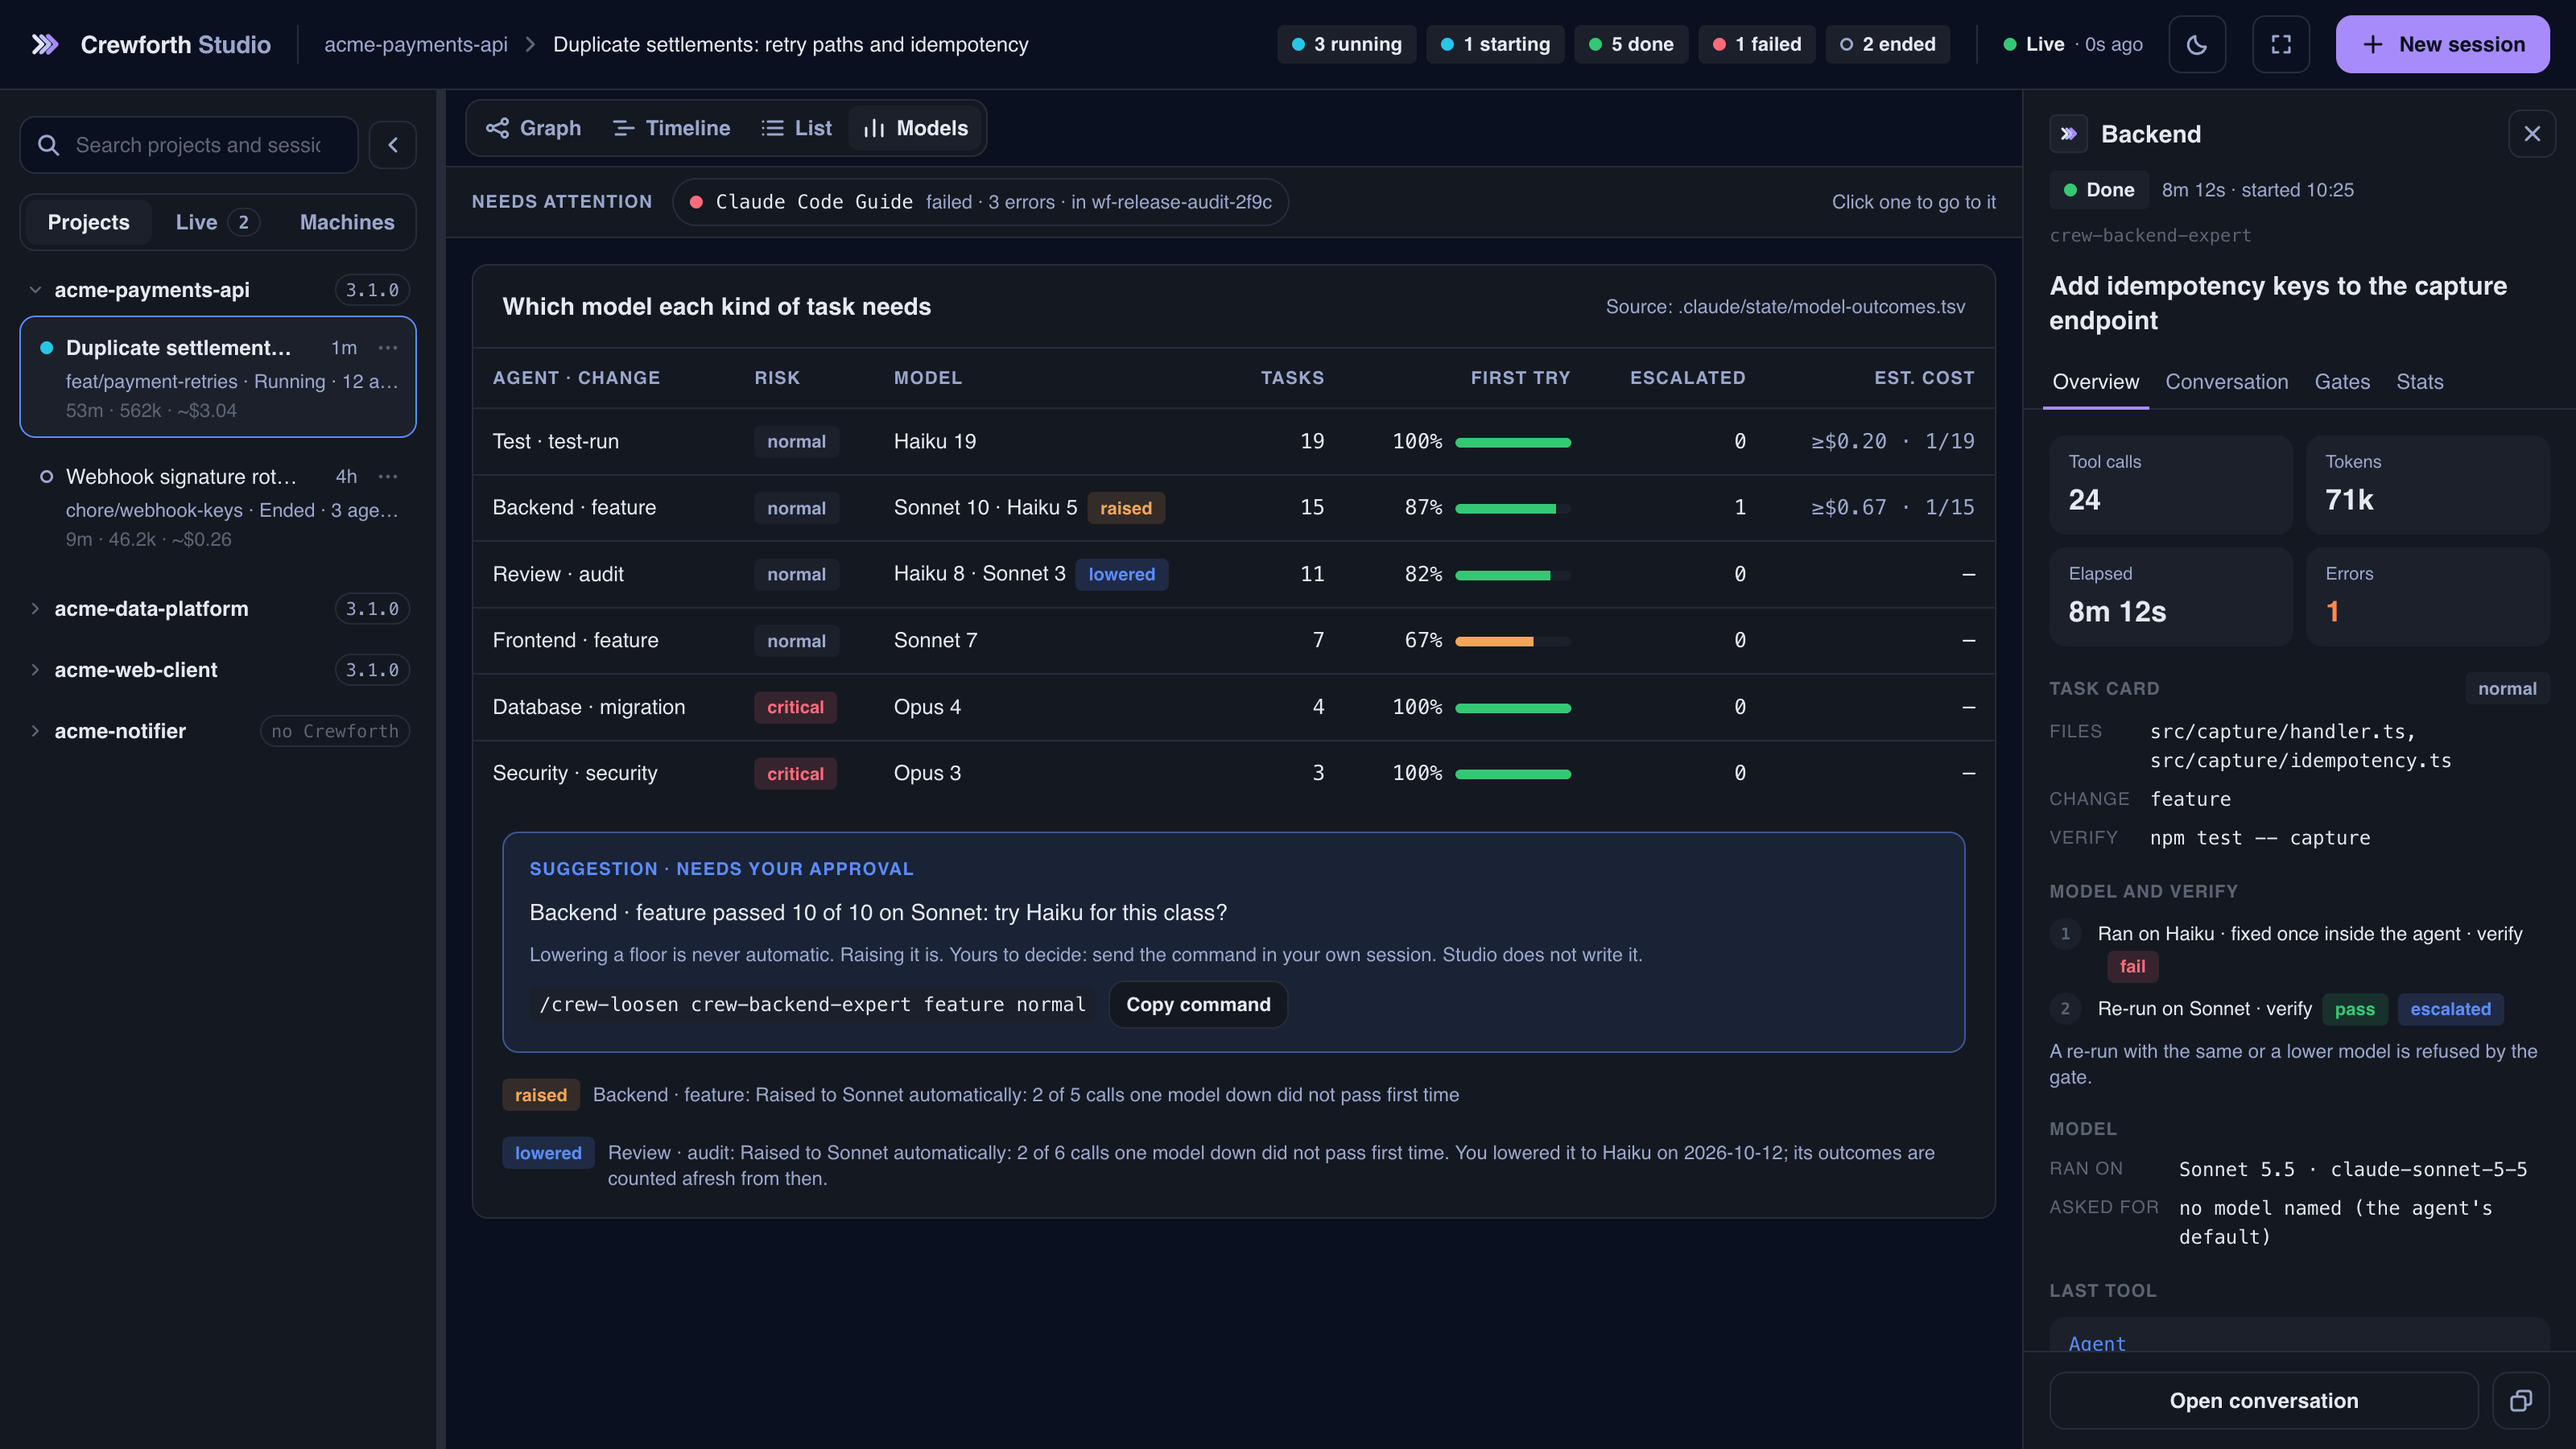
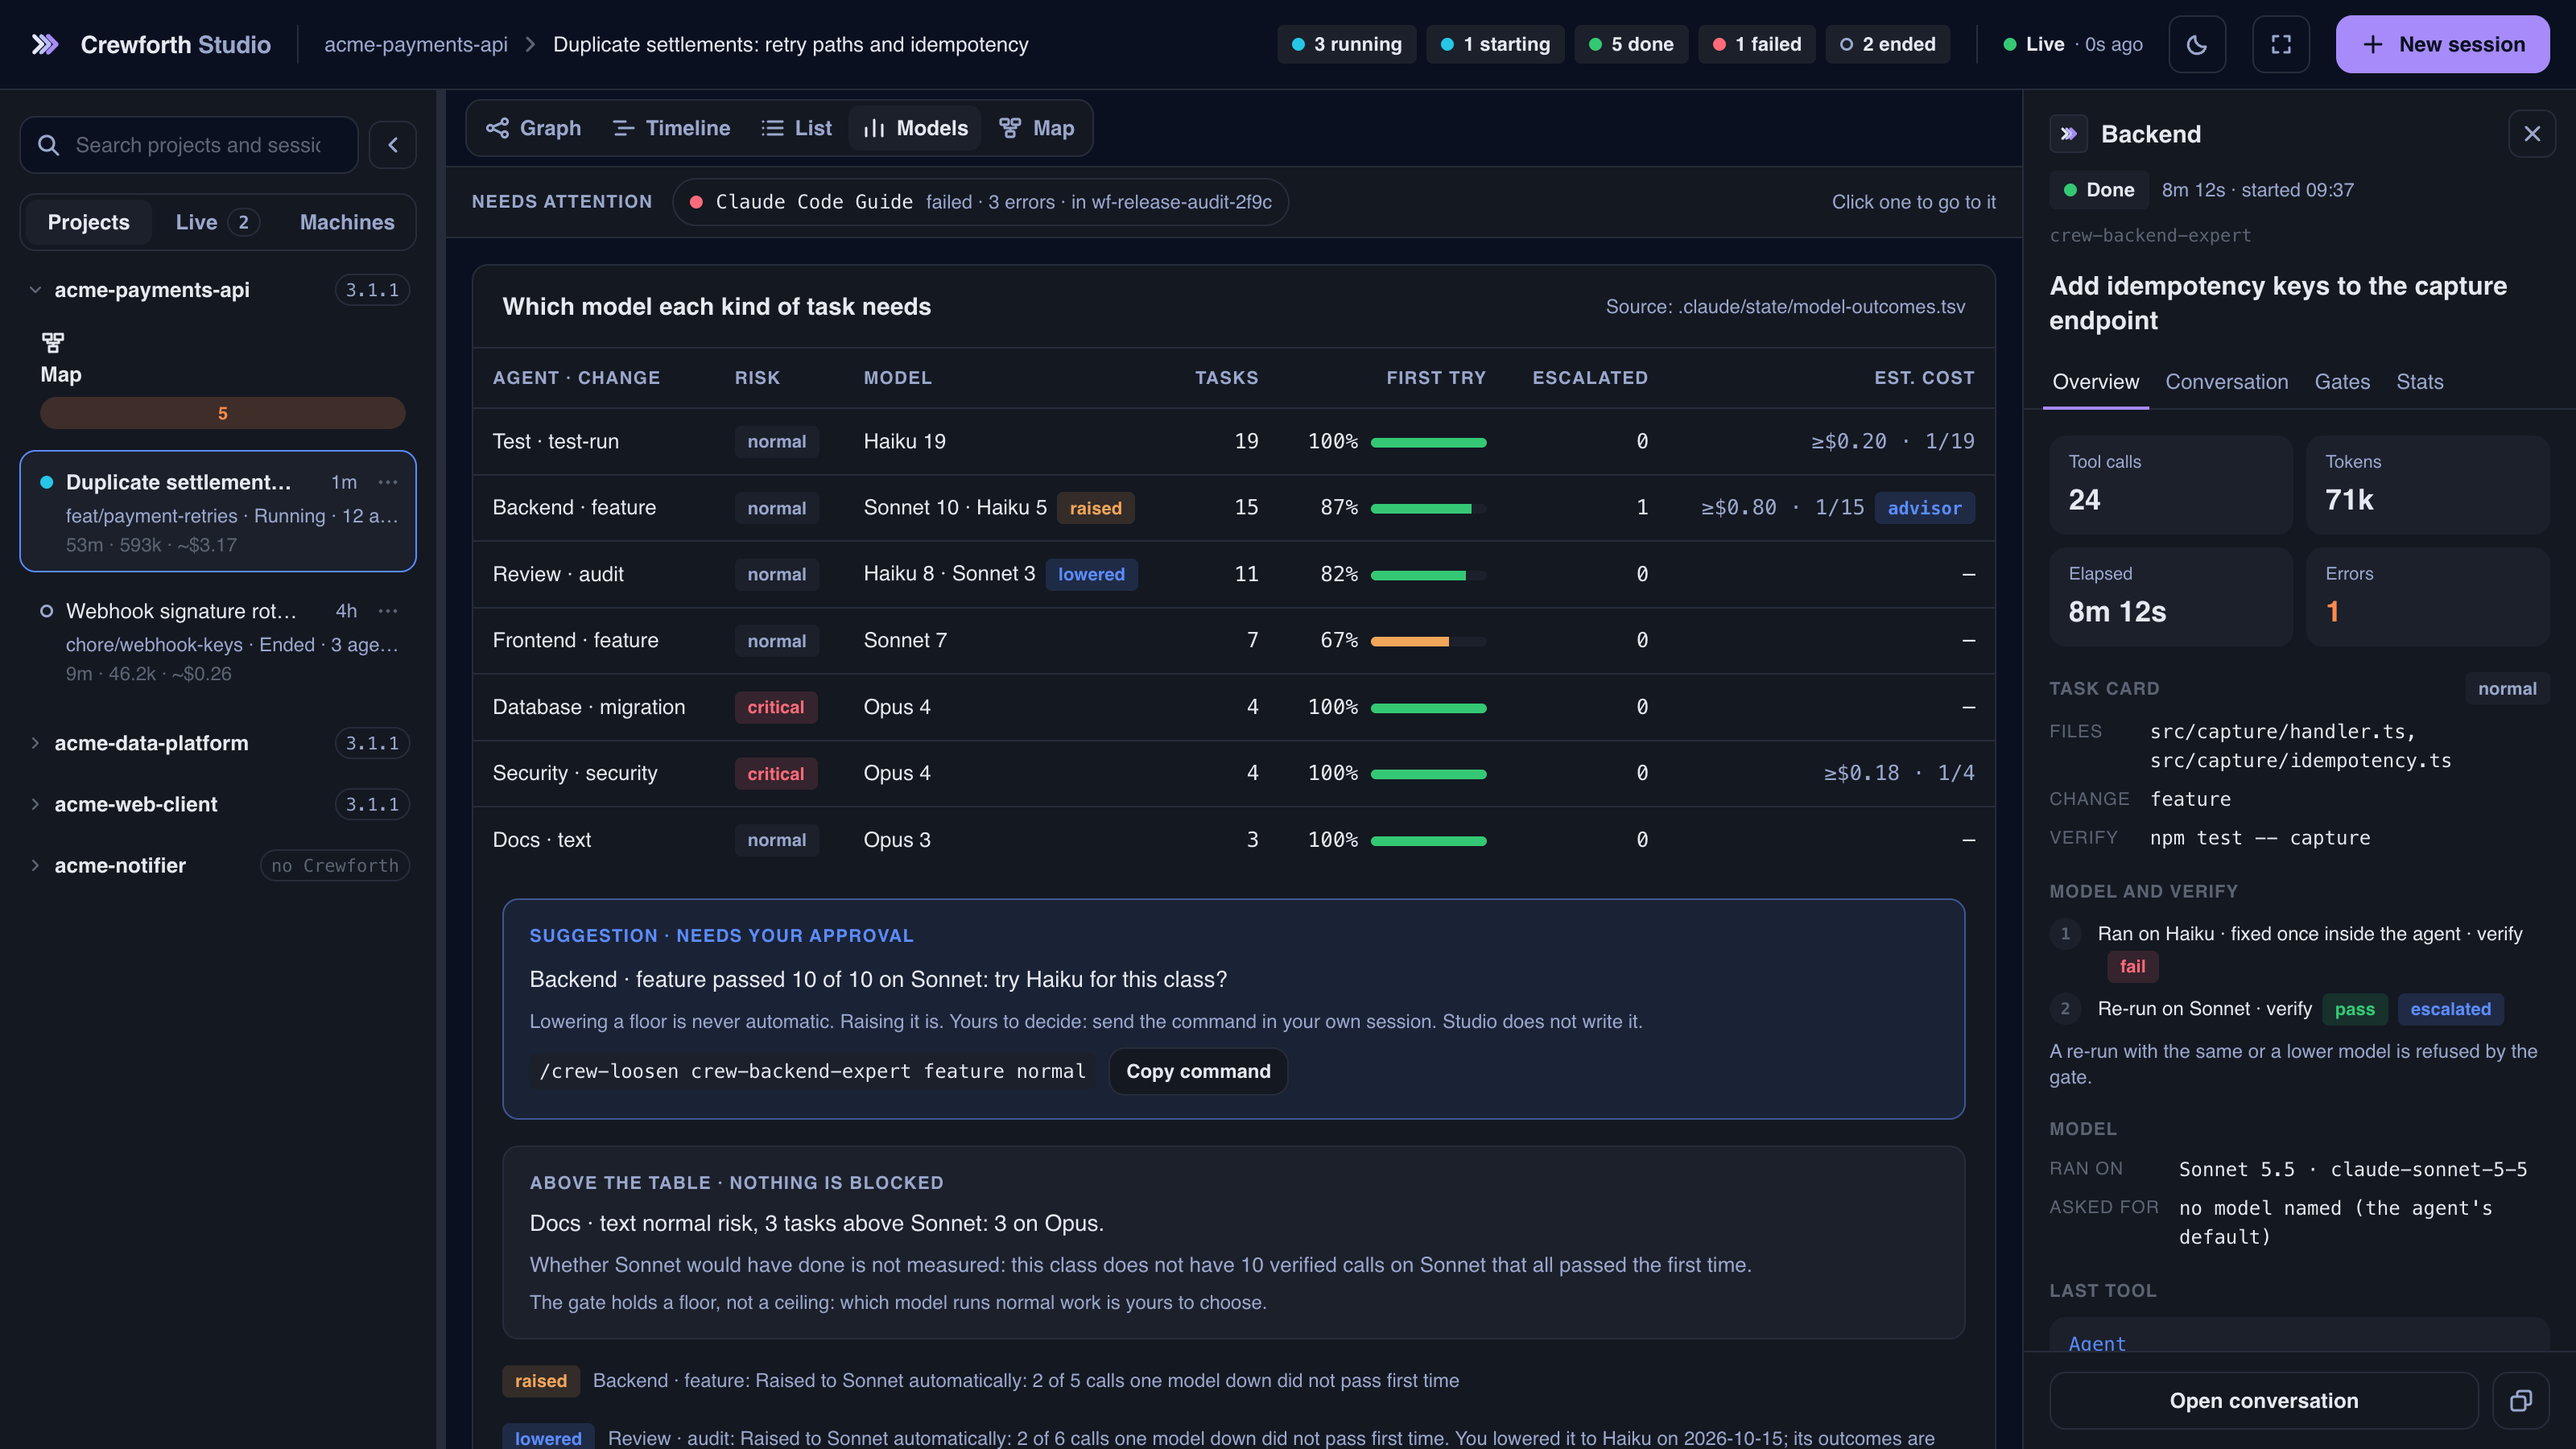
docs(studio): pictures with the Map, why critical, the advisor and the work above the table
The recording fixture now holds what 3.2.0 shows: the record of outcomes has the
risk_why column, with the gate's words for critical work; the release audit's
security scan has a card and a line; normal work ran above Sonnet; one agent's
transcript lists an advisor call the way the API writes it; and the hero project
gets one of the scanner's test projects, over which the real scanner writes
.crewforth/crew-map.json.

The tour opens the Done section and the security scan, and holds that "why
critical" says "change: security"; the Models beat holds the advisor tag and the
box above the table; a Map beat follows. The Models still checks the same, and
map.mjs takes a new still, assets/studio-map.png, which the Studio page shows
under its Map section in English and Turkish. The four pictures were recorded
again with record.sh; every beat passed and no take showed this machine.

diff --git a/packaging/studio-record/README.md b/packaging/studio-record/README.md
@@ -7,10 +7,11 @@ Re-records the Studio pictures after a change to the panel:
 | `assets/studio-panels.gif` | the Studio page | the panel in use: the graph and an agent's inspector, the Timeline, the List, the Models view, a request answered in the approval dock, the New session panel |
 | `assets/studio-graph.png` | the Studio page | the Graph view of the finished session |
 | `assets/studio-models.png` | the Studio page | the Models view of the session's project, with the task card of one agent in the inspector |
+| `assets/studio-map.png` | the Studio page | the Map view of the session's project, drawn from what Crewforth's scanner wrote for it |
 | `site/media/crewforth-hero.mp4` | the front page, and the README by its own copy | two scenes of the overview video: the Studio scene (40.4 s – 47.8 s), and the version and skill count the install scene prints (8.8 s – 12.2 s). Every other frame and the sound are left as they were |
 
 ```bash
-bash packaging/studio-record/record.sh                    # the three pictures, and the take the video uses
+bash packaging/studio-record/record.sh                    # the four pictures, and the take the video uses
 python3 packaging/studio-record/scene.py --video OLD.mp4 --film <take> --out NEW.mp4   # the scene in the video
 node packaging/studio-record/install-render.mjs --out <dir> --was "3.0.0,39" --now "3.1.0,40"
 python3 packaging/studio-record/install_scene.py --video OLD.mp4 --drawn <dir> --out NEW.mp4   # the numbers the install scene prints

diff --git a/site/content/tr/studio.md b/site/content/tr/studio.md
@@ -100,6 +100,11 @@ Düğümler yukarıdan aşağıya bantlara oturuyor: **Clients**, **Entry points
 
 Telefonda bölmenin yerini bulgular ve modüllerin listesi alıyor; bir satır modülü inspector'da açıyor.
 
+<div align="center">
+  <img src="../../../assets/studio-map.png" alt="Bir demo projenin Map görünümü: istemcilerden dış kaynaklara bantlara oturmuş modüller, aralarındaki çizgiler ve bölmenin altında bulgular; her biri gösterdiği dosya ve satırla." width="100%">
+  <br><sub>Crewforth'un tarayıcısının bir demo proje için yazdığı haritadan çizildi; çıkarımla bulunan kurallar istenene kadar gizli.</sub>
+</div>
+
 ## Onay dock'u
 
 Studio'nun başlattığı bir oturumdaki araç çağrısı, ekranda hangi oturum ve hangi görünüm olursa olsun, panelin altındaki dock'ta bekliyor. Dock isteyen ajanı, aracı ve girdisini gösteriyor; üç cevap var: **Allow once**, **Allow _araç_ this session** ve **Deny** (`a`, `s`, `d`). Cevap gelmezse çağrı 45 saniyede reddediliyor. Oturum izni inspector'ın Gates sekmesinde listeleniyor ve oradan geri alınabiliyor.

diff --git a/site/content/en/studio.md b/site/content/en/studio.md
@@ -100,6 +100,11 @@ Nodes sit in bands, from the top: **Clients**, **Entry points**, **Core**, **Inf
 
 On a phone the pane gives way to the findings and a list of the modules; a row opens the module in the inspector.
 
+<div align="center">
+  <img src="../../../assets/studio-map.png" alt="The Map view of a demo project: modules in bands from clients to external resources, lines between them, and the findings under the pane, each with the file and line it cites." width="100%">
+  <br><sub>Drawn from the map Crewforth's scanner wrote for a demo project; the inferred rules stay hidden until asked for.</sub>
+</div>
+
 ## The approval dock
 
 A tool call in a session Studio started waits in a dock along the bottom of the panel, whichever session and view are on screen. It shows the agent that asked, the tool and its input, and three answers: **Allow once**, **Allow _tool_ this session** and **Deny** (`a`, `s`, `d`). Unanswered, the call is denied at 45 s. A session allowance is listed in the inspector's Gates tab and can be revoked there.
